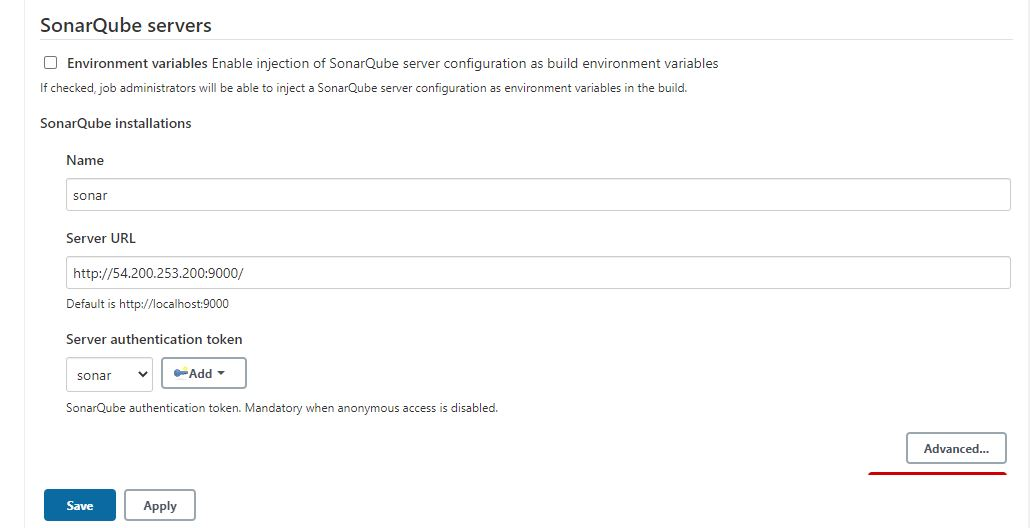
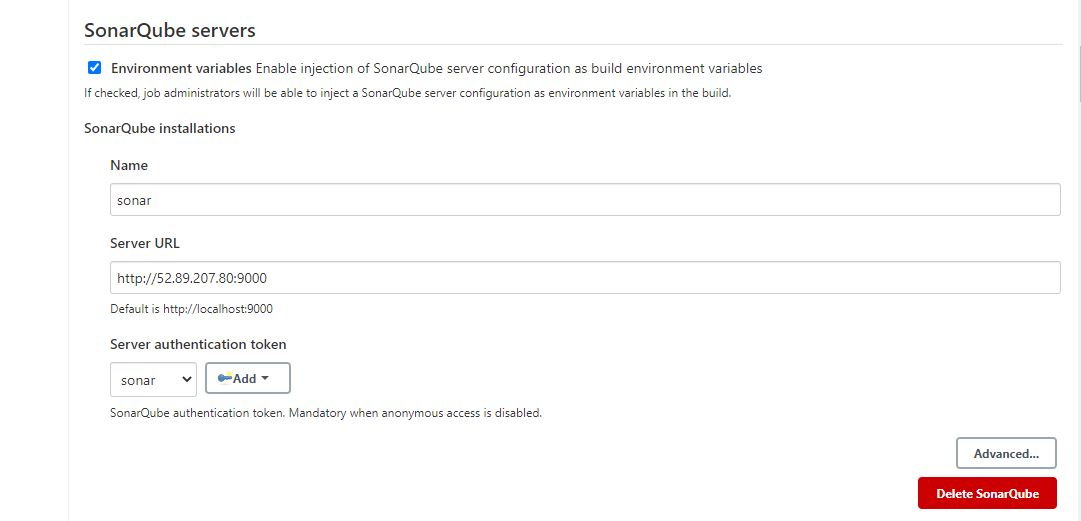
Add content day 5

diff --git a/jenkins-integration/README.md b/jenkins-integration/README.md
@@ -18,8 +18,6 @@ $ echo "vm.max_map_count=262144" | sudo tee -a /etc/sysctl.conf
 $ sudo sysctl -w vm.max_map_count=262144 
 
 # Cài đặt SonarQube
-# Switch sang user root
-$ sudo su
 $ docker-compose up -d
 
 # Kiểm tra SonarQube đã chạy hay chưa
@@ -43,7 +41,12 @@ $ docker ps | egrep "sonar|postgres"
 ![Add Credential](https://github.com/hoabka/jenkins-course/blob/master/jenkins-integration/images/addCredentialSonar.JPG)
 
 #### 1.2.3. Cài đặt SonarQube scanner plugin trên Jenkins
-- Chọn mục **Manage Jenkins** => **Manage Plugins** => Chọn Tab **Available** => Tìm Plugin **Sonarqube Scanner** => Sau đó nhấn cài đặt (**Install Without Restart**)
+- Chọn mục **Manage Jenkins** => **Manage Plugins** => Chọn Tab **Available** => Tìm Plugin **Sonarqube Scanner** 
+- => Sau đó nhấn cài đặt (**Install Without Restart**)
+- Tương tự cài đặt **docker**, **docker pipeline** plugin
+
+> **Sonarqube Scanner** plugin cho phép quản lý các Agent dùng để quét code của SonarQube.
+> **Docker** và **Docker Pipeline** plugin để cho phép tạo một Jenkins Slave Container theo một Image định nghĩa sẵn và cho phép Job Build của Jenkins chạy trên Slave này
 
 ![Install Plugin](https://github.com/hoabka/jenkins-course/blob/master/jenkins-integration/images/pluginSonarQube.JPG)
 
@@ -53,8 +56,11 @@ $ docker ps | egrep "sonar|postgres"
 ![Install SonarScanner](https://github.com/hoabka/jenkins-course/blob/master/jenkins-integration/images/installSonarQube.JPG)
 
 #### 1.2.4. Cấu hình SonarQube server trên Jenkins
-- Vào **Manage Jenkins**  => **Configure System** => **SonarQube servers** => **Add SonarQube** => Phần `Name` để là **sonar** (sẽ được dùng trong Jenkinsfile) và phần `Server URL` dể đường dẫn tới SonarQube server.
+- Vào **Manage Jenkins**  => **Configure System** => **SonarQube servers** => **Add SonarQube** => Phần `Name` để là **sonar** (sẽ được dùng trong Jenkinsfile) và phần `Server URL` để đường dẫn tới SonarQube server.
+- Tích chọn vào ô **Environment variables**
 - Phần Token chọn Token được tạo ra ở bước **1.2.2** rồi click **Save**
+
+> Việc tích chọn vào **Environment variables** sẽ cho phép lấy được các tham số cấu hình của SonarQube trong quá trình chạy Job.
 
 ![Add SonarQube server](https://github.com/hoabka/jenkins-course/blob/master/jenkins-integration/images/addSonarQubeServer.JPG)
 
